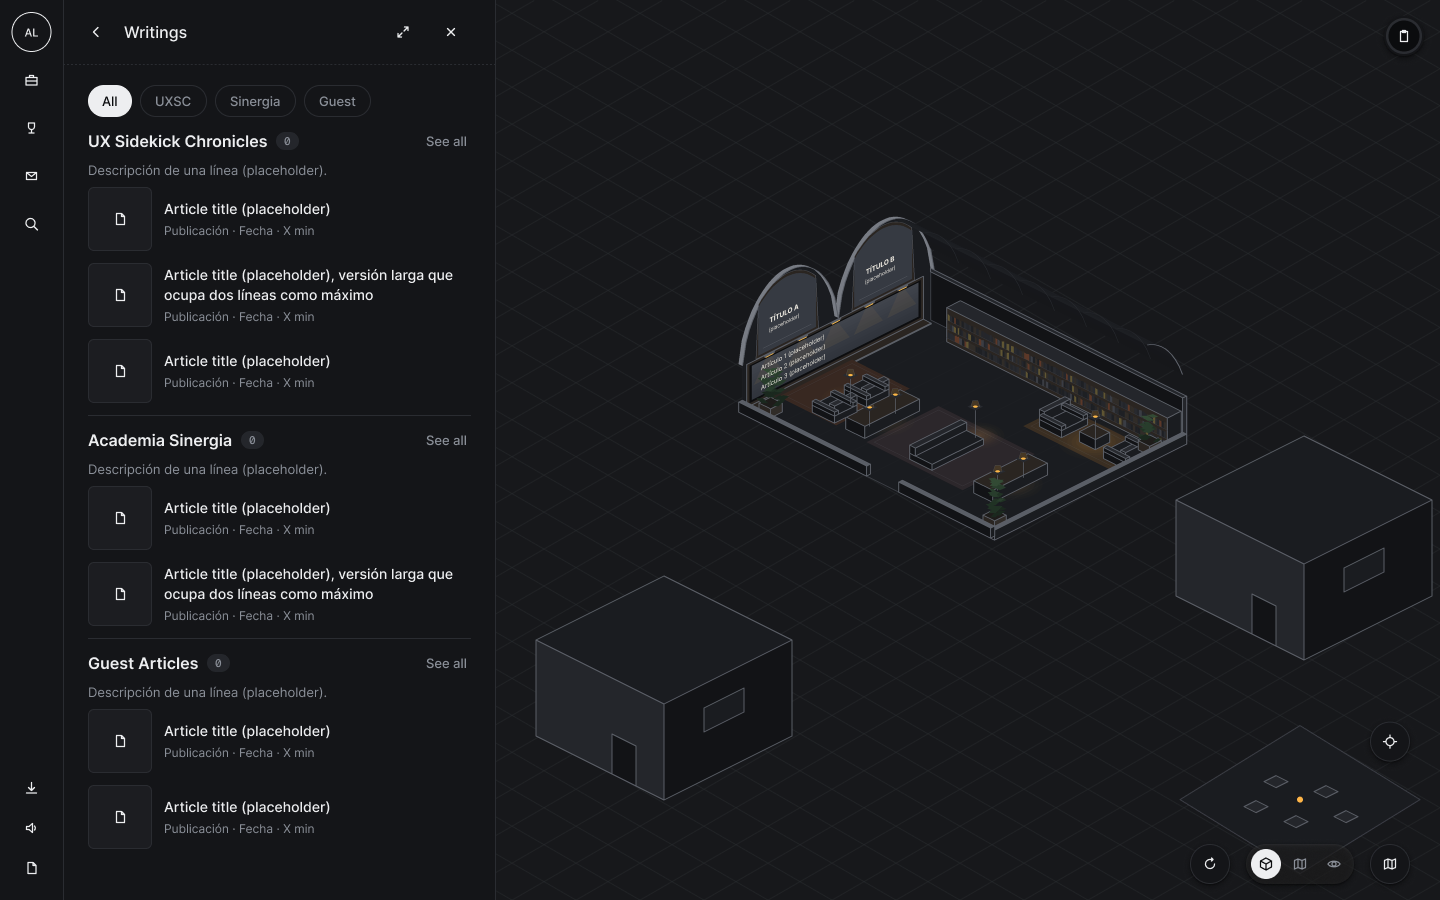
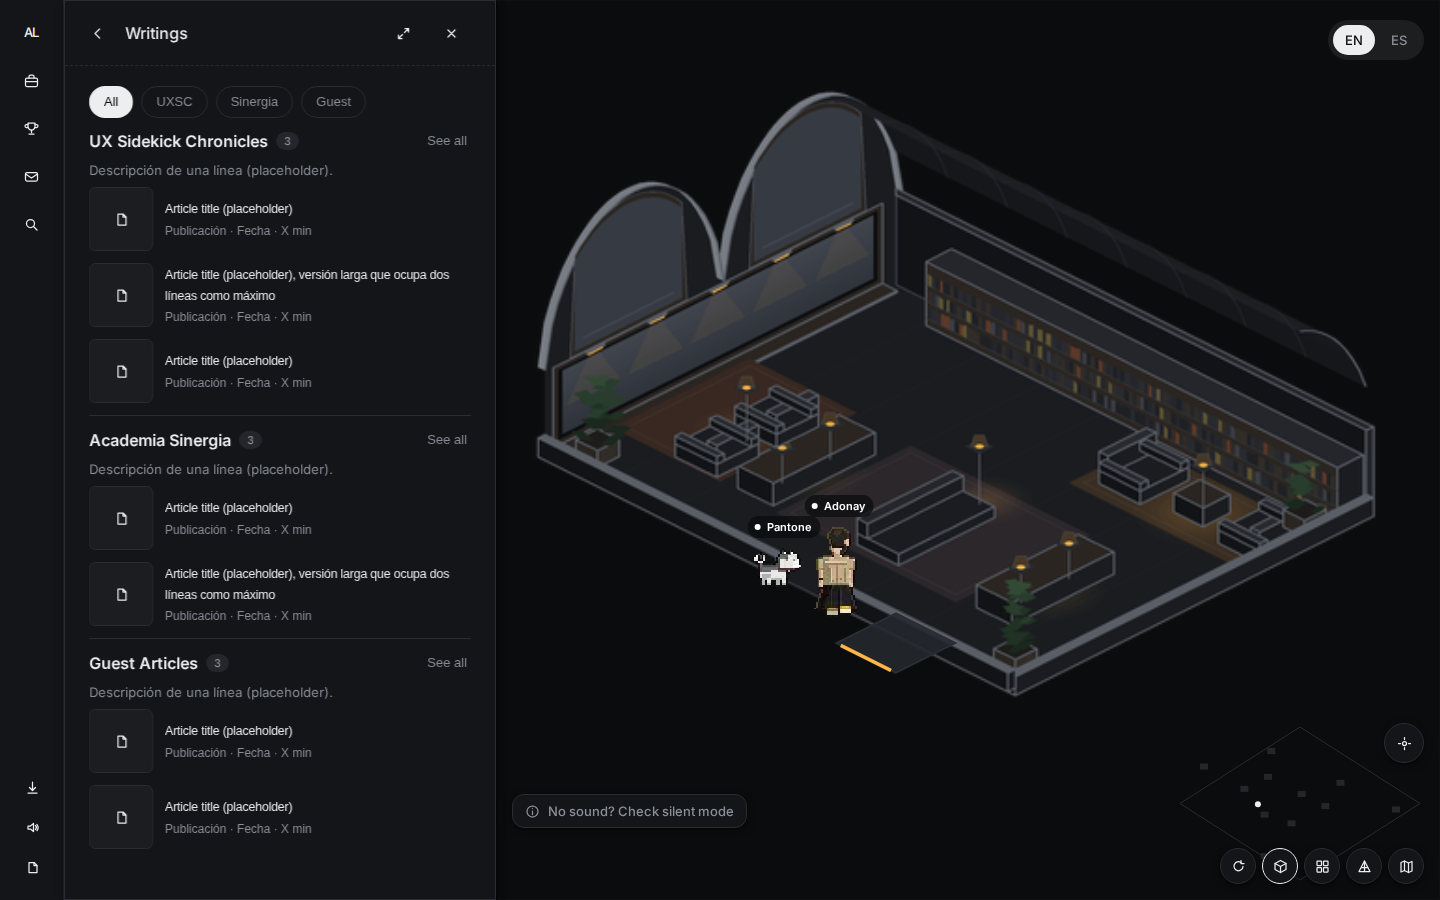
fix(edificios-e3): writings SBS gate, biblioteca z-order, aria labels
Skip phone-map checklist crops in SBS gate; tune talks player and writings
panel typography; refresh writings golden PNGs for live section counts.
Draw biblioteca behind obelisco/redondo trees; restore talks progress chrome
for layout parity; label mobile experience header buttons.

diff --git a/src/ui/buildingPanel.ts b/src/ui/buildingPanel.ts
@@ -778,6 +778,8 @@ export class BuildingPanel {
           <button type="button" class="talks-player__pause" aria-label="${t('talks.play')}">
             <img class="talks-player__pause-icon" src="${FIGMA_PLAY}" width="14" height="14" alt="" />
           </button>
+          <div class="talks-player__progress" aria-hidden="true"><span class="talks-player__progress-fill"></span></div>
+          <p class="talks-player__time" aria-hidden="true">0:00 / 0:00</p>
         </div>
         <h3 class="talks-player__title"></h3>
         <p class="talks-player__meta"></p>
@@ -1241,5 +1243,11 @@ export class BuildingPanel {
     if (read) read.textContent = t('panel.readCase');
     const back = this.el.querySelector('[data-exp-back]') as HTMLElement | null;
     if (back) back.setAttribute('aria-label', t('experience.back'));
+    const mobBack = this.el.querySelector('[data-exp-mobile-back]') as HTMLElement | null;
+    if (mobBack) mobBack.setAttribute('aria-label', t('experience.back'));
+    const mobClose = this.el.querySelector('[data-exp-mobile-close]') as HTMLElement | null;
+    if (mobClose) mobClose.setAttribute('aria-label', t('panel.close'));
+    const expand = this.el.querySelector('[data-exp-expand]') as HTMLElement | null;
+    if (expand) expand.setAttribute('aria-label', t('panel.expand'));
   }
 }

diff --git a/src/styles.css b/src/styles.css
@@ -1454,14 +1454,10 @@ body[data-layout='panel'] .checklist {
     gap: 7px;
   }
 
-  .building-panel--experience.building-panel--writings .experience__thumb--doc {
-    width: 63px;
-    height: 63px;
-  }
-
   .building-panel--experience.building-panel--writings .experience__row-title {
-    font-size: 13.25px;
-    line-height: 19px;
+    font-size: 12.5px;
+    line-height: 20.5px;
+    letter-spacing: -0.02em;
   }
 
   .building-panel--experience.building-panel--writings .experience__row {
@@ -1473,6 +1469,18 @@ body[data-layout='panel'] .checklist {
 
   .building-panel--experience.building-panel--writings .experience__list {
     gap: 8px;
+  }
+
+  .building-panel--experience .talks-player {
+    gap: 15px;
+  }
+
+  .building-panel--experience .talks-player__stage {
+    height: 220px;
+  }
+
+  .building-panel--experience .talks-player__title {
+    line-height: 23px;
   }
 
   .building-panel--experience.building-panel--writings
@@ -1711,6 +1719,12 @@ body[data-layout='panel'] .checklist {
 
   .building-panel--experience.building-panel--writings .experience__list {
     gap: 12px;
+  }
+
+  .building-panel--experience.building-panel--writings .experience__row-title {
+    font-size: 13px;
+    line-height: 20px;
+    letter-spacing: -0.02em;
   }
 
   .building-panel--experience .talks-player {

diff --git a/src/game/scene.ts b/src/game/scene.ts
@@ -948,7 +948,13 @@ export class IsoScene {
               ? { contains: (x: number, y: number) => box.contains(x, y) && spriteAlphaHit(obj, pos.x + x, pos.y + y) }
               : box;
         const flat = obj.name === 'redoma' || !!obj.flat;
-        const zIndex = flat ? -10 : objectDepth(obj) + (obj.x - obj.y) * 0.0001;
+        let depthBias = 0;
+        if (obj.type === 'building' && obj.name === 'biblioteca') {
+          depthBias = -30;
+        } else if (obj.name === 'obelisco' || (obj.name === 'tree' && obj.variant === 'redondo')) {
+          depthBias = 12;
+        }
+        const zIndex = flat ? -10 : objectDepth(obj) + depthBias + (obj.x - obj.y) * 0.0001;
         g.zIndex = zIndex;
         if (obj.flat) g.eventMode = 'none';
         const spriteBox = {

diff --git a/src/ui/i18n.ts b/src/ui/i18n.ts
@@ -47,6 +47,7 @@ const DICT = {
 
     'panel.exit': 'Exit',
     'panel.close': 'Close',
+    'panel.expand': 'Expand panel',
     'panel.readCase': 'Read case',
     'panel.talks': 'Talks',
     'panel.writings': 'Writings',
@@ -222,6 +223,7 @@ const DICT = {
 
     'panel.exit': 'Salir',
     'panel.close': 'Cerrar',
+    'panel.expand': 'Expandir panel',
     'panel.readCase': 'Leer caso',
     'panel.talks': 'Talks',
     'panel.writings': 'Writings',
